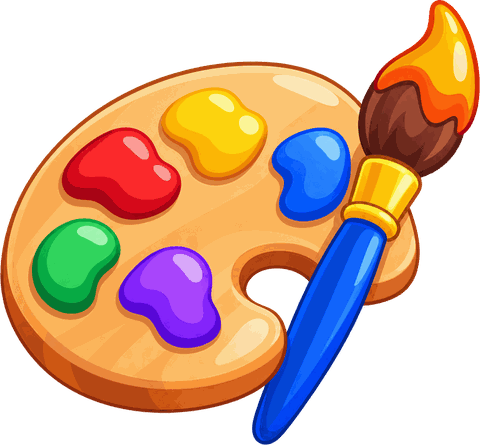
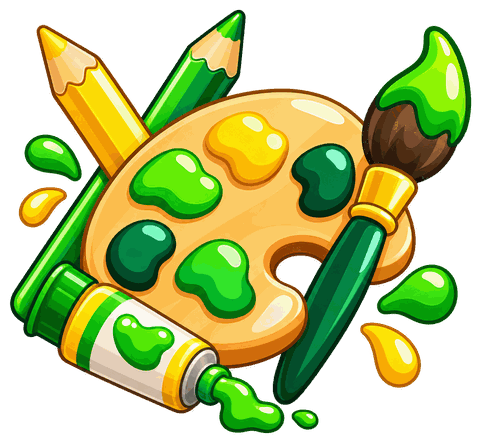
feat(parent): green club artwork for every club category (home bubbles, club offers)
The parent home "Выполненные задания" bubbles and the profile club cards used the blue student art for everything
except robotics and chess. All eight clubs now use the green set from the design; categories without their own
picture (math, music, sport, other) get the green "project" art. Images are trimmed to 480px palette PNGs.

diff --git a/apps/web/src/widgets/parent-home-homework/model.ts b/apps/web/src/widgets/parent-home-homework/model.ts
@@ -4,7 +4,6 @@ import chess from './assets/club-chess.png';
 import chinese from './assets/club-chinese.png';
 import english from './assets/club-english.png';
 import programming from './assets/club-programming.png';
-import projectAlt from './assets/club-project-alt.png';
 import project from './assets/club-project.png';
 import robotics from './assets/club-robotics.png';
 import speaking from './assets/club-speaking.png';
@@ -25,9 +24,10 @@ export function bubbleSize(done: number, recommended: number): number {
 }
 
 /**
- * Картинка кружка в круге: шахматы и робототехника — зелёные из макета родителя, остальные —
- * ближайшие из набора предметов ученика. Как и у ученика, языки и «прочее» уточняются по
- * названию (китайский, ораторское искусство, проектная деятельность).
+ * Картинка кружка (зелёный набор режима родителя; круги «Выполненные задания» и карточки
+ * «Кружки для ваших детей»). Как и у ученика, языки и «прочее» уточняются по названию
+ * (китайский, ораторское искусство, проектная деятельность); категории без своей картинки
+ * (математика, музыка, спорт, прочее) получают «проектную».
  */
 export function clubArt({ title, category }: Pick<ClubBrief, 'title' | 'category'>): string {
   const name = title.toLowerCase();
@@ -45,9 +45,7 @@ export function clubArt({ title, category }: Pick<ClubBrief, 'title' | 'category
       return english;
     case 'ART':
       return art;
-    case 'SCIENCE':
-      return project;
     default:
-      return projectAlt;
+      return project;
   }
 }
